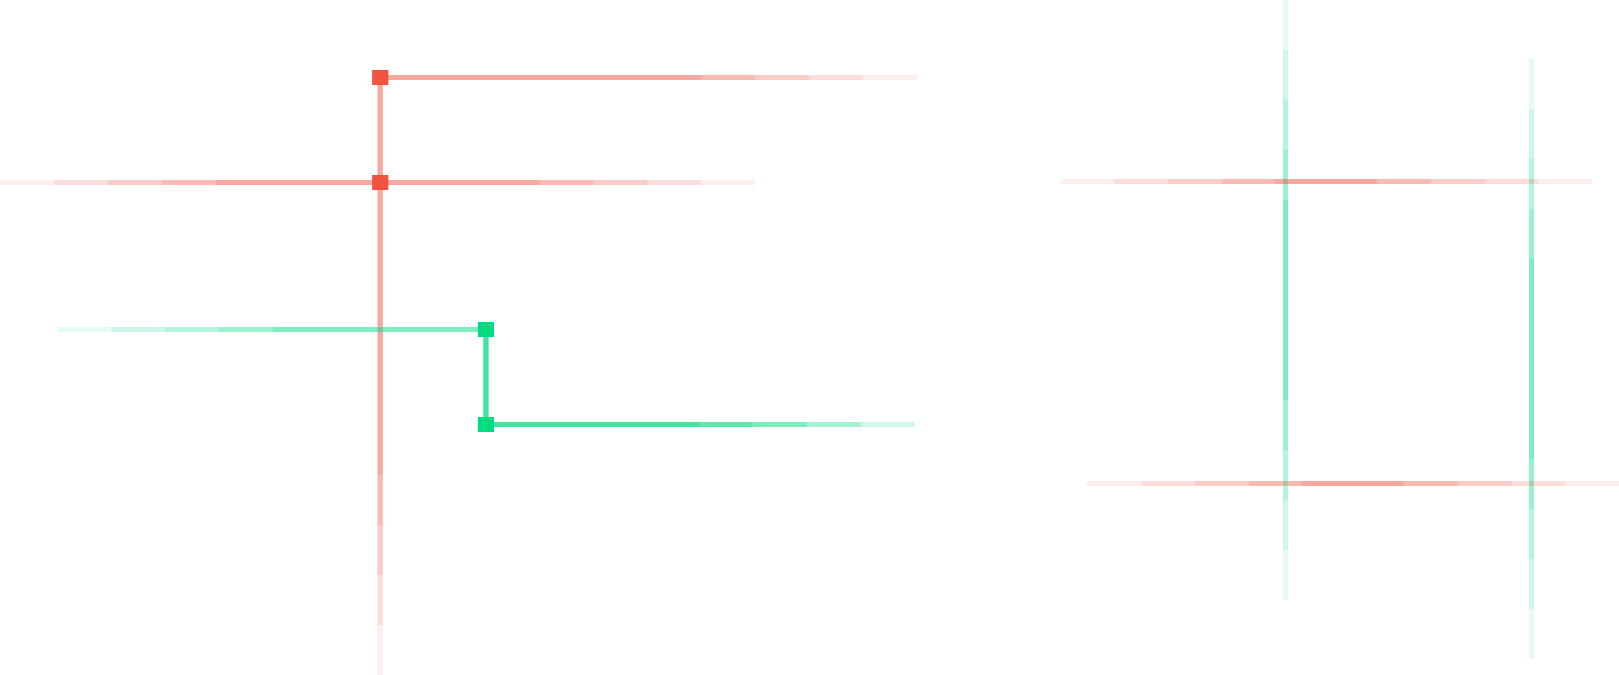
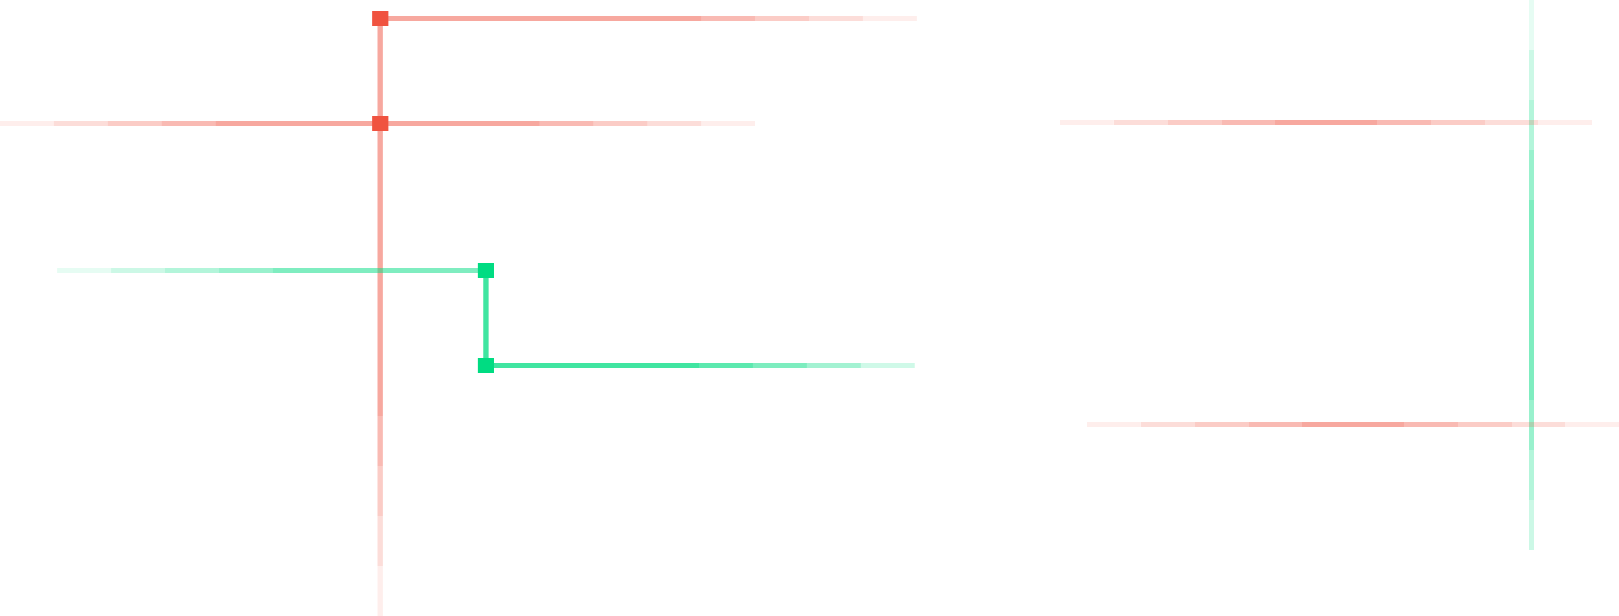
Animate pattern using vanilla css.

diff --git a/components/molecules/hero-animated-line.vue b/components/molecules/hero-animated-line.vue
@@ -1,0 +1,39 @@
+<script setup lang="ts">
+import greenLine from "~/assets/images/elements/line-green.png";
+</script>
+
+<template>
+  <div class="line hidden xl:block absolute right-175 top-50">
+    <img :src="greenLine" width="4px" alt="animated green line going from top to bottom"/>
+  </div>
+</template>
+
+<style scoped>
+
+.line {
+  animation: animation-top-to-down 5s ease-in-out infinite;
+  animation-delay: 2s;
+}
+
+@keyframes animation-top-to-down {
+  0% {
+    opacity: 0;
+    transform: translateY(-150px);
+  }
+
+  20% {
+    opacity: 100%;
+    transform: translateY(0px);
+  }
+
+  80% {
+    opacity: 100%;
+    transform: translateY(0px);
+  }
+
+  100% {
+    opacity: 0;
+    transform: translateY(150px);
+  }
+}
+</style>

diff --git a/components/organisms/hero.vue b/components/organisms/hero.vue
@@ -2,11 +2,13 @@
 import AnimatedLogo from "~/components/molecules/animated-logo.vue";
 import Center from "~/components/atoms/helper/center.vue";
 import HeroPattern from "~/components/molecules/hero-pattern.vue";
+import HeroAnimatedLine from "~/components/molecules/hero-animated-line.vue";
 </script>
 
 <template>
   <Center>
     <HeroPattern/>
+    <HeroAnimatedLine/>
     <AnimatedLogo/>
   </Center>
 </template>
